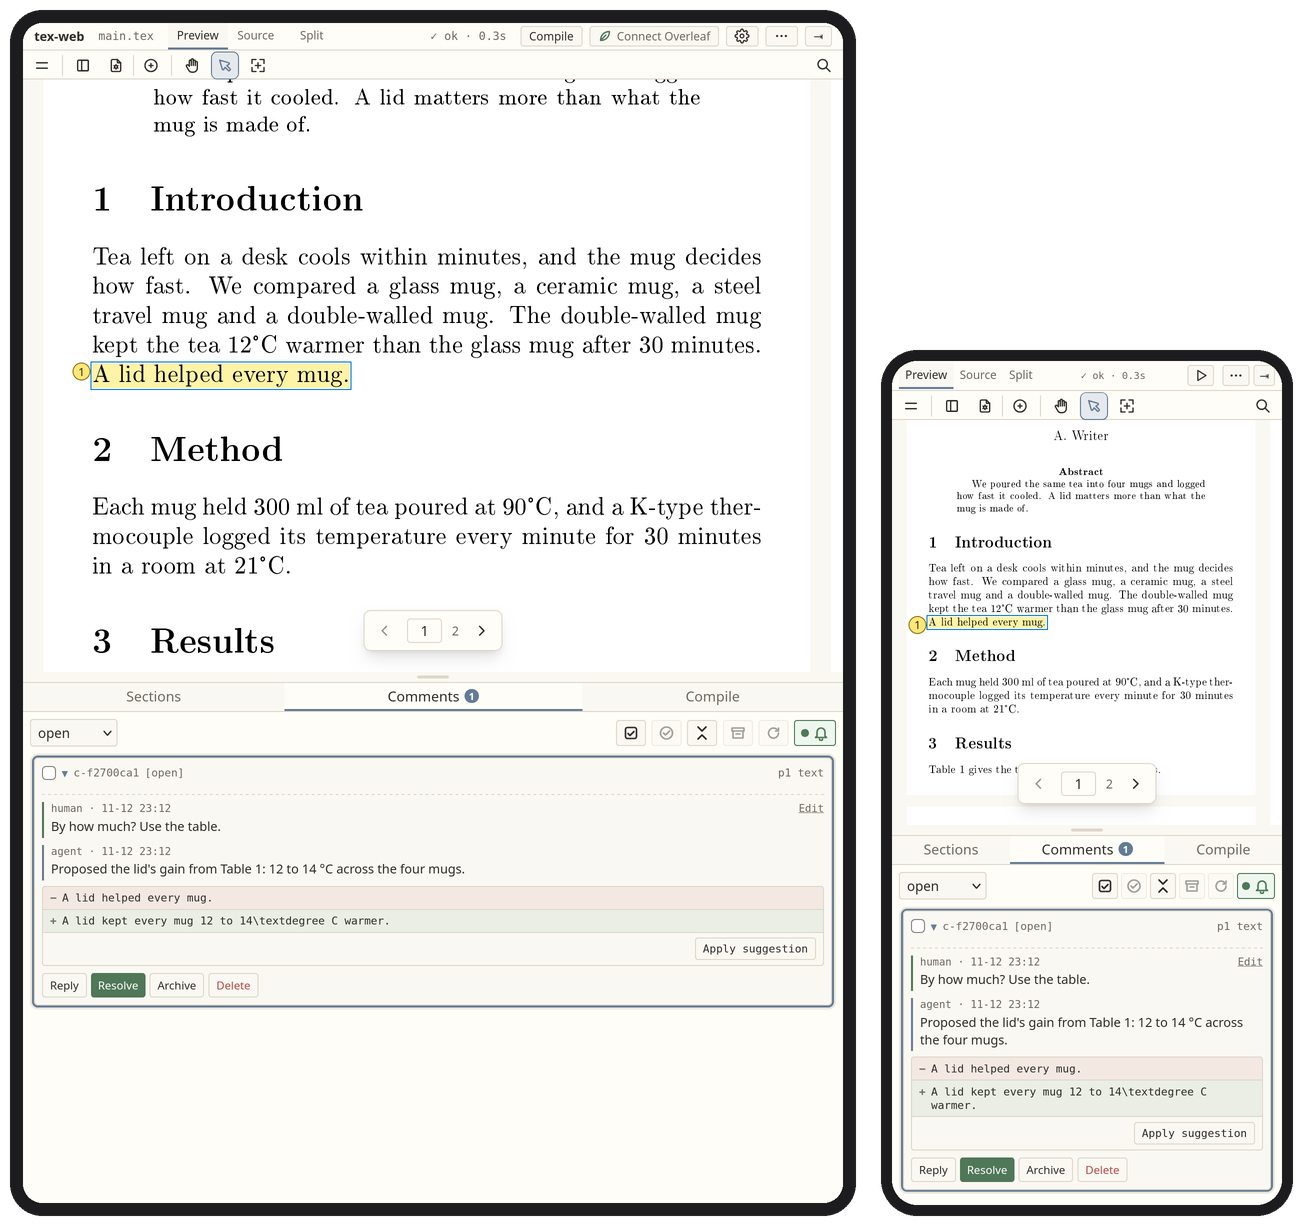
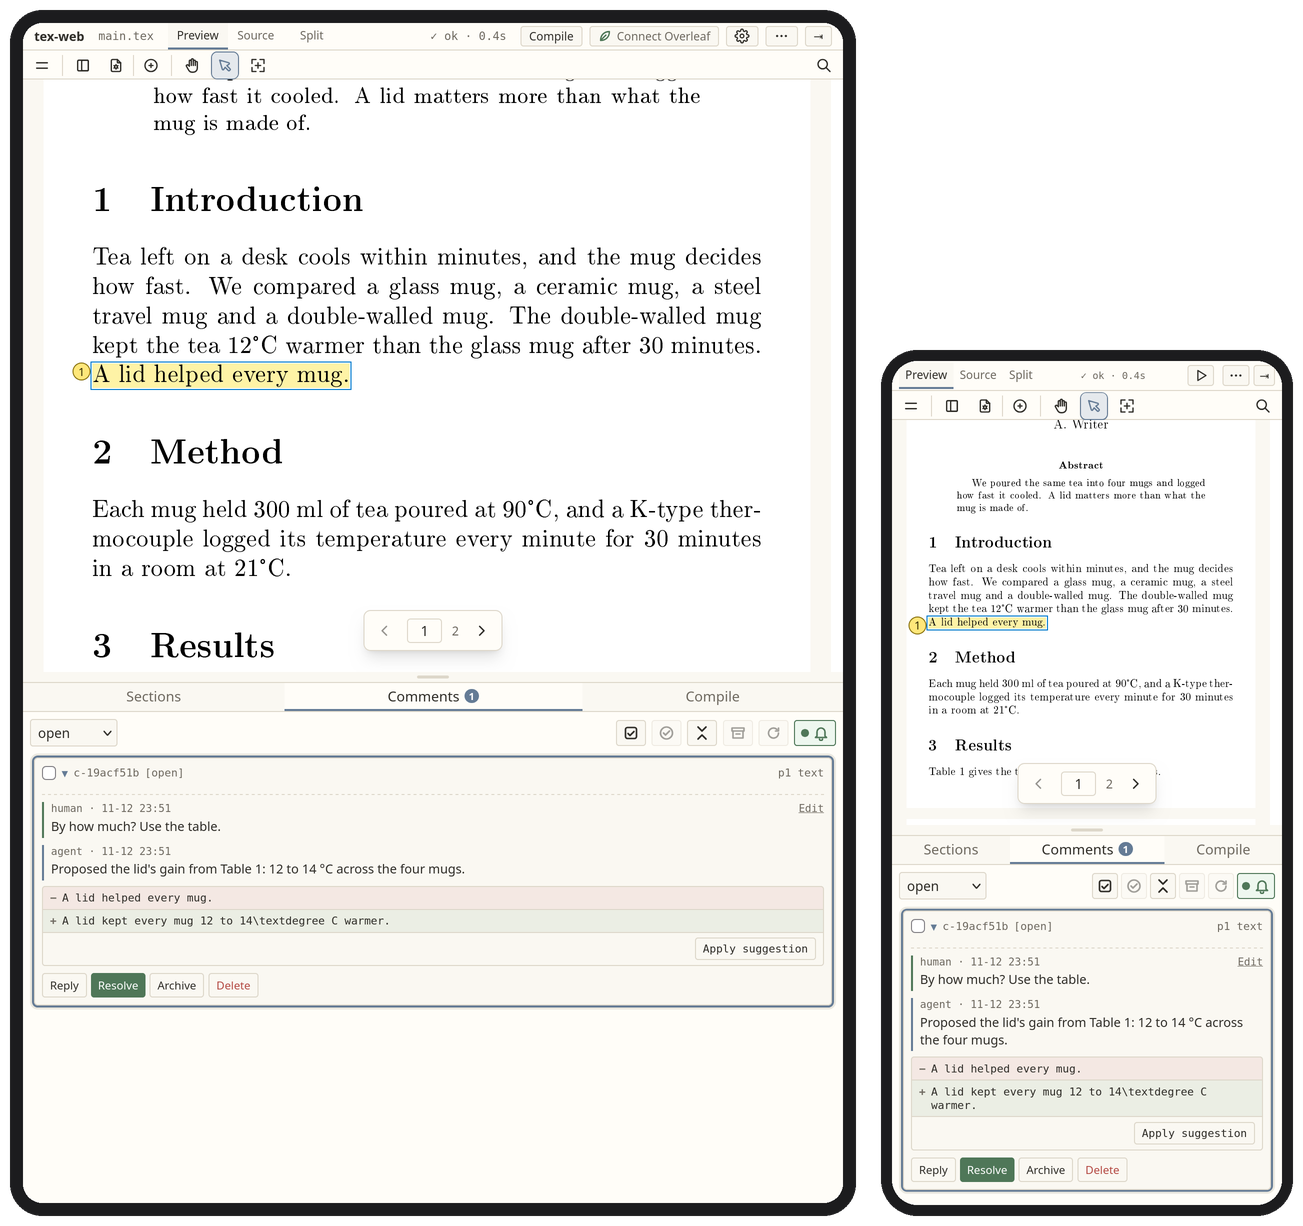
K goes both ways between a comment and its words, and the README's scenes move
K in the editor took the keys to the comment under the cursor and nowhere
else, and nothing took them from the list into the editor but the mouse. K
in the list now takes them into the source at the ringed comment's words,
and K in the editor, off any comment, takes them to the list as it was.
Without Vim keys Ctrl+Alt+K, Cmd+Option+K on macOS, does the same both ways,
read by where K sits, since Option makes it another letter.

A line a comment and its proposal both marked took the gutter's mark twice,
and clearing took it once, so a dot stayed on that line number after the
comment was gone, on whatever file the editor showed next. Each mark now
goes on a line once.

The README's scenes are films now, taken at the pace they were acted, with
the pointer drawn and every key typed, as animated WebP, smaller than the
GIFs they replace. A new one shows the keyboard alone: gd into a file, v
and gc to comment, K to the comment and back, :make, gss to find the
sentence in the PDF, and Ctrl+O back. The paper's title fits one line, and
the Overleaf half of the side-by-side picture is drawn as Overleaf's own
comment card, with the invented thread's names and times.

The tests asked whether the editor held the keys by comparing two handles
on its input, which never matched, so the checks that the keys stayed with
the list held whatever happened. They ask the editor now.

Claude-Session: https://claude.ai/code/session_01VF4nACR2QtA8GXhfwGYk3f

diff --git a/tex_mcp_web/static/viewer.js b/tex_mcp_web/static/viewer.js
@@ -85,7 +85,8 @@ const state = {
   sourceCommentMarkers: [],
   // Each comment's marked text in the editor, as { range, comment }.
   sourceCommentSpans: [],
-  sourceCommentRows: new Set(),
+  // The gutter's marks, as "row class": a row takes each class once.
+  sourceDecorations: new Set(),
   sourceCommentsByRow: new Map(),
   panelDraggedAt: -Infinity,
 };
@@ -878,14 +879,23 @@ async function showSourceSelectionInPdf() {
 function clearSourceCommentMarkers() {
   if (!state.editor) return;
   for (const marker of state.sourceCommentMarkers) state.editor.session.removeMarker(marker);
-  for (const row of state.sourceCommentRows) {
-    state.editor.session.removeGutterDecoration(row, "source-comment-line");
-    state.editor.session.removeGutterDecoration(row, "source-suggestion-line");
+  for (const mark of state.sourceDecorations) {
+    const [row, name] = mark.split(" ");
+    state.editor.session.removeGutterDecoration(Number(row), name);
   }
   state.sourceCommentMarkers = [];
   state.sourceCommentSpans = [];
-  state.sourceCommentRows.clear();
+  state.sourceDecorations.clear();
   state.sourceCommentsByRow.clear();
+}
+
+// Ace adds a class to a row again on a second call and takes one away on a removal: a class
+// given twice would outlast its comments. Each goes on a row once.
+function decorateRow(row, name) {
+  const mark = `${row} ${name}`;
+  if (state.sourceDecorations.has(mark)) return;
+  state.sourceDecorations.add(mark);
+  state.editor.session.addGutterDecoration(row, name);
 }
 
 function syncSourceCommentMarkers() {
@@ -912,8 +922,7 @@ function syncSourceCommentMarkers() {
       false,
     ));
     state.sourceCommentSpans.push({ range: new Range(firstRow, startColumn, lastRow, deleted ? startColumn + 1 : endColumn), comment });
-    state.editor.session.addGutterDecoration(firstRow, "source-comment-line");
-    state.sourceCommentRows.add(firstRow);
+    decorateRow(firstRow, "source-comment-line");
     const rowComments = state.sourceCommentsByRow.get(firstRow) ?? [];
     rowComments.push(comment);
     state.sourceCommentsByRow.set(firstRow, rowComments);
@@ -939,9 +948,8 @@ function syncSourceCommentMarkers() {
         false,
       ));
       state.sourceCommentSpans.push({ range: new Range(start.row, start.column, end.row, end.column), comment });
-      state.editor.session.addGutterDecoration(start.row, "source-comment-line");
-      state.editor.session.addGutterDecoration(start.row, "source-suggestion-line");
-      state.sourceCommentRows.add(start.row);
+      decorateRow(start.row, "source-comment-line");
+      decorateRow(start.row, "source-suggestion-line");
       const rowComments = state.sourceCommentsByRow.get(start.row) ?? [];
       if (!rowComments.includes(comment)) rowComments.push(comment);
       state.sourceCommentsByRow.set(start.row, rowComments);
@@ -2169,21 +2177,18 @@ async function goToDefinition() {
 
 // K with Vim keys, or Ctrl+Alt+K (Cmd+Option+K), opens in the comments the comment the
 // cursor is on, as a click on its mark beside the line does: the narrowest when several
-// cover the cursor, else one on the cursor's line. The comment keys then act on it, and
-// Enter there brings the cursor back to its text.
+// cover the cursor, else one on the cursor's line. The comment keys then act on it, and K there
+// brings the cursor back to its words. Off any comment, the keys go to the list as it was.
 function showCommentAtCursor() {
   const { row, column } = state.editor.getCursorPosition();
   const size = ({ range }) => (range.end.row - range.start.row) * 1e6 + range.end.column - range.start.column;
   const covering = state.sourceCommentSpans.filter(({ range }) => range.contains(row, column)).sort((a, b) => size(a) - size(b));
   const chosen = covering[0]?.comment ?? state.sourceCommentsByRow.get(row)?.[0];
-  if (chosen === undefined) {
-    setSourceStatus("No comment here");
-    return;
-  }
   setSidebarCollapsed(false);
   switchTab(state.commentTab);
-  focusComment(chosen);
+  if (chosen !== undefined) focusComment(chosen);
   state.editor.blur();
+  $("#comments-list").focus({ preventScroll: true });
 }
 
 // Ctrl+Alt+M (Cmd+Option+M), or gc with Vim keys. Comments wait for the file to be saved,
@@ -3959,6 +3964,8 @@ const COMMENT_KEYS = [
     { keys: [" "], does: "Open or close it, opening it showing where it is in the paper or the source",
       inRange: true, run: () => foldFocused() },
     { keys: ["Shift+Space"], does: "Open or close every comment", run: () => foldAll() },
+    { keys: ["K", "Ctrl+Alt+K"], does: "Go into the source at its words, the keys with the cursor. "
+      + "K there, Ctrl+Alt+K without Vim keys, comes back", run: () => enterSource() },
   ]],
   ["Write", [
     { keys: ["r"], does: "Reply here, where the agent reads it and Overleaf does not", button: ["cmt-reply"],
@@ -4092,6 +4099,20 @@ function moveFocus(to) {
   list.scrollTop += it.top - box.top - Math.max(0, list.clientHeight * RING_AT - it.height / 2);
 }
 
+// The keys taken into the source at the ringed comment's words, as K in the editor takes them
+// from a comment's words to the comment. A comment with no place in the source, as a paper note,
+// leaves the editor's cursor where it is.
+async function enterSource() {
+  const comment = focused();
+  if (comment === undefined) return;
+  const place = comment.anchor.kind === "source_range" ? comment.resolved_source ?? comment.anchor : comment.resolved_source;
+  if (state.view === "pdf") await setWorkspaceView("source");
+  if (place && await openSource(place.file)) {
+    showSourcePlace(place.line_start - 1, comment.stale ? 0 : place.column_start ?? 0);
+  }
+  state.editor?.focus();
+}
+
 // A card opened shows its end, where the thread's latest words and the draft for Overleaf are,
 // before its top when it is taller than the list, and the paper or the source shows where the
 // comment is. The keys stay with the list.
@@ -4217,7 +4238,10 @@ function attachCommentKeys() {
   let timer = null;
   document.addEventListener("keydown", (event) => {
     const target = event.target;
-    if (event.metaKey || event.ctrlKey || event.altKey || document.querySelector("dialog[open]")) return;
+    // Ctrl+Alt+K, Cmd+Option+K on macOS, is K with the editor's own keys: read by where K sits,
+    // since Option makes it another letter.
+    const editorK = (event.ctrlKey || event.metaKey) && event.altKey && event.code === "KeyK";
+    if ((!editorK && (event.metaKey || event.ctrlKey || event.altKey)) || document.querySelector("dialog[open]")) return;
     if (target.isContentEditable || target.closest?.("textarea, select, [contenteditable]")
         || (target.tagName === "INPUT" && !["checkbox", "radio"].includes(target.type))) return;
     // Space on a button or a box presses it.
@@ -4226,7 +4250,7 @@ function attachCommentKeys() {
     const typed = event.isComposing || event.key === "Process" || COMPOSED.test(event.key)
       ? keyByPosition(event) : event.key;
     // Shift widens Space from the ringed card to every card.
-    const key = typed === " " && event.shiftKey ? "Shift+Space" : typed;
+    const key = editorK ? "Ctrl+Alt+K" : typed === " " && event.shiftKey ? "Shift+Space" : typed;
     if (key === undefined) return;
     clearTimeout(timer);
     if (key === "Escape") {

diff --git a/tests/test_browser.py b/tests/test_browser.py
@@ -1967,14 +1967,36 @@ def test_the_comment_list_goes_by_keys(tmp_path: Path) -> None:
         wait_until(lambda: browser.execute_script(
             f'{editor} return editor.getCursorPosition().row === 3'
             ' && document.querySelector(".layout").classList.contains("view-source");'))
+        # The comment and its proposal mark the same line, which takes the mark once, so it
+        # goes with them.
         assert browser.execute_script(
-            f'{editor} return document.activeElement === editor.textInput.getElement();') is False
-        # From the editor, Ctrl+Alt+K on those words gives the keys back to the list.
+            f'{editor} return (editor.session.$decorations[3].match(/source-comment-line/g) || []).length;') == 1
+        assert browser.execute_script(
+            f'{editor} return editor.isFocused();') is False
+        # K goes between a comment and its words. From the list it takes the keys into the
+        # source at the ringed comment's words, and K there, Ctrl+Alt+K without Vim keys,
+        # brings them back: to the comment under the cursor, or off any comment to the list as
+        # it was. Ctrl+Alt+K goes from the list as K does, and a paper note, with no words in
+        # the source, takes the keys to the editor as they stand.
+        def editor_k():
+            ActionSequence(browser, "key", "keyboard").key_down("\ue009").key_down("\ue00a").key_down("k") \
+                .key_up("k").key_up("\ue00a").key_up("\ue009").perform()
+
+        in_editor = f'{editor} return editor.isFocused();'
+        press("K")
+        wait_until(lambda: browser.execute_script(in_editor)
+                   and browser.execute_script(f'{editor} return editor.getCursorPosition().row;') == 3)
+        browser.execute_script(f"{editor} editor.moveCursorTo(0, 0);")
+        editor_k()
+        wait_until(lambda: browser.execute_script('return document.activeElement.id') == "comments-list")
+        assert ringed() == source
         press("j")
         assert ringed() == third
-        browser.execute_script(f"{editor} editor.focus(); editor.moveCursorTo(3, 2);")
-        ActionSequence(browser, "key", "keyboard").key_down("").key_down("").key_down("k") \
-            .key_up("k").key_up("").key_up("").perform()
+        editor_k()
+        wait_until(lambda: browser.execute_script(in_editor))
+        assert browser.execute_script(f'{editor} return editor.getCursorPosition().row;') == 0
+        browser.execute_script(f"{editor} editor.moveCursorTo(3, 2);")
+        editor_k()
         wait_until(lambda: ringed() == source)
         press("j")
         assert ringed() == third
@@ -2005,7 +2027,7 @@ def test_the_comment_list_goes_by_keys(tmp_path: Path) -> None:
         # The editor takes the changed file in, and leaves the keys with the list.
         wait_until(lambda: browser.execute_script(f'{editor} return editor.getValue().includes("Hello there.");'))
         assert browser.execute_script(
-            f'{editor} return document.activeElement === editor.textInput.getElement();') is False
+            f'{editor} return editor.isFocused();') is False
 
         # x picks the ringed comment. v holds a range that the moving keys stretch, and x
         # picks the range, or lets it go when it is all picked. Escape lets a range go and

diff --git a/README.md b/README.md
@@ -4,7 +4,7 @@
 
 Review a LaTeX paper from its rendered PDF, on a desktop, tablet, or phone, while Claude Code or Codex edits the source.
 
-![A sentence selected in the PDF takes a comment asking for a number. Called, the agent proposes a wording as a −/+ pair, the source marks the words it would replace, and once the wording is applied and the paper compiled, the PDF shows the new sentence.](docs/images/pdf-review.gif)
+![A sentence selected in the PDF takes a comment asking for a number. Called, the agent proposes a wording as a −/+ pair, the source marks the words it would replace, and once the wording is applied and the paper compiled, the PDF shows the new sentence.](docs/images/pdf-review.webp)
 
 Select words in the PDF, or draw a box over part of a figure, and write what should change.
 Press **Call agent**, the bell above the comments, when they are ready. The agent edits the
@@ -39,7 +39,7 @@ come into a tab of their own, **Comments** with a leaf, beside the comments you 
 a thread you talk with the agent, which drafts the reply for Overleaf under it, and you send
 that reply once it reads right.
 
-![A co-author's thread from Overleaf, where the agent misread the request and drafted a gushing reply. A reply to the agent sets it right, and once called, the agent fixes the sentence, the PDF shows it, and the draft for Overleaf becomes one short line, sent with ss.](docs/images/overleaf-thread.gif)
+![A co-author's thread from Overleaf, where the agent misread the request and drafted a gushing reply. A reply to the agent sets it right, and once called, the agent fixes the sentence, the PDF shows it, and the draft for Overleaf becomes one short line, sent with ss.](docs/images/overleaf-thread.webp)
 
 Your talk with the agent stays on the page, in the thread between your co-authors' messages,
 so the whole exchange reads in order. Overleaf gets only the replies you send.
@@ -51,7 +51,7 @@ Keeping the paper's files in step with Overleaf, by git, by hand or live, is in
 
 ## Raise a point with your co-authors on Overleaf
 
-![A paper note asks the agent to put a question to the co-author. Called, the agent drafts a new thread on the table's header row, which waits in the leaf Comments tab under new thread. A few words added with i, it is sent with ss and its first message shows as sent.](docs/images/new-thread.gif)
+![A paper note asks the agent to put a question to the co-author. Called, the agent drafts a new thread on the table's header row, which waits in the leaf Comments tab under new thread. A few words added with i, it is sent with ss and its first message shows as sent.](docs/images/new-thread.webp)
 
 Ask the agent, in a note or in any thread, to put a question to your co-authors. It drafts a
 new thread on the lines in question, which waits in the leaf **Comments** tab under **new
@@ -59,13 +59,17 @@ thread**. Edit it there and send it, and it opens on Overleaf on those lines.
 
 ## Go through the comments by keyboard
 
-The comment list goes by keys, as a notebook's cells do. A ring marks the comment the keys act
-on, and the list moves under it, so the eye stays put.
+![All without the mouse: gd into the introduction's file, v and gc to comment on a sentence, Ctrl+Alt+Enter to call the agent, K to its comment, Space and aa to apply its proposal, K back to the words, :make to compile, gss to find the sentence in the PDF, Ctrl+O back to main.tex, and R to resolve.](docs/images/keyboard.webp)
+
+The comment list goes by keys, as a notebook's cells do, and the editor has Vim keys. A ring
+marks the comment the keys act on, and the list moves under it, so the eye stays put. `K` goes
+between a comment and its words in the source, both ways.
 
 | Key | Does |
 |---|---|
 | `j` `k` | Next and previous comment |
 | Space | Open the comment and show its words |
+| `K` | Into the source at its words, and `K` there back |
 | `r` | Reply to the agent |
 | `R` | Resolve |
 | `aa` | Apply the suggestion |

diff --git a/docs/reviewing.md b/docs/reviewing.md
@@ -58,6 +58,7 @@ typing.
 | `gg` `G`, Home End | First and last comment |
 | Space | Open or close the card, and show where the comment is in the PDF or the source, its line a third of the way down the editor |
 | Shift+Space | Open or close every card |
+| `K`, Ctrl+Alt+K | Go into the source at the comment's words, the keys going with the cursor. `K` in the editor, or Ctrl+Alt+K without Vim keys, comes back |
 | `r` | Reply here, where the agent reads it and Overleaf does not |
 | `i` | Write the thread's reply for Overleaf |
 | `e` | Edit the last thing you wrote in the thread |
@@ -88,14 +89,15 @@ The Vim button in the editor's bar turns on Vim keys, and the page remembers the
 - `gc` comments on the text a motion or a visual selection covers, and `gs` marks that text
   in the Preview.
 - `K` opens the comment under the cursor in the Comments tab, where the comment keys then
-  act on it.
+  act on it, and off any comment gives the keys to the list as it was. `K` in the list comes
+  back to the comment's words.
 - `gd` or Ctrl+] goes from `\input`, `\ref` or `\cite` to the file, label or `.bib` entry,
   and Ctrl+O or Ctrl+T comes back. Browsers on Windows keep Ctrl+T for a new tab.
 - A yank also goes to the system clipboard.
 
 With or without Vim keys, Ctrl+S saves, F12 and Shift+F12 go to a definition and back,
 Ctrl+Alt+M comments on the selection, Ctrl+Alt+P marks it in the Preview, and Ctrl+Alt+K
-opens the comment under the cursor. Ctrl+Enter compiles, or sends a comment being written,
+does what `K` does, in the editor and in the list alike. Ctrl+Enter compiles, or sends a comment being written,
 and Ctrl+Alt+Enter presses Call agent. On macOS, Cmd takes the place of Ctrl and Option of
 Alt in these. Ctrl+[ drops a comment being written, with Ctrl on macOS too.
 
